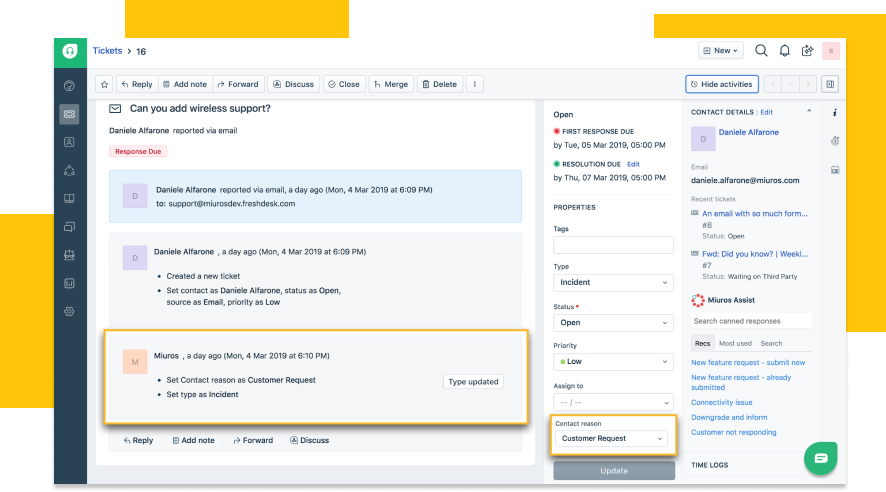
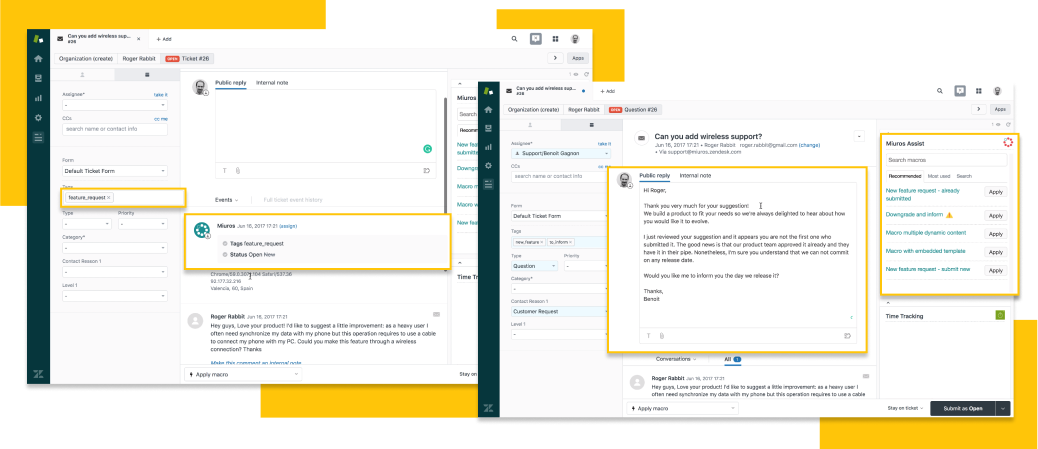
assist hero

diff --git a/src/atoms/Images/Images.jsx b/src/atoms/Images/Images.jsx
@@ -6,7 +6,7 @@ const AssistHeroImg = styled("img").attrs(props => ({
 }))`
     display: block;
     margin: 40px auto 0;
-    max-width: 74%;
+    max-width: 100%;
 `
 
 const AssistSideImg = styled("img").attrs(props => ({
